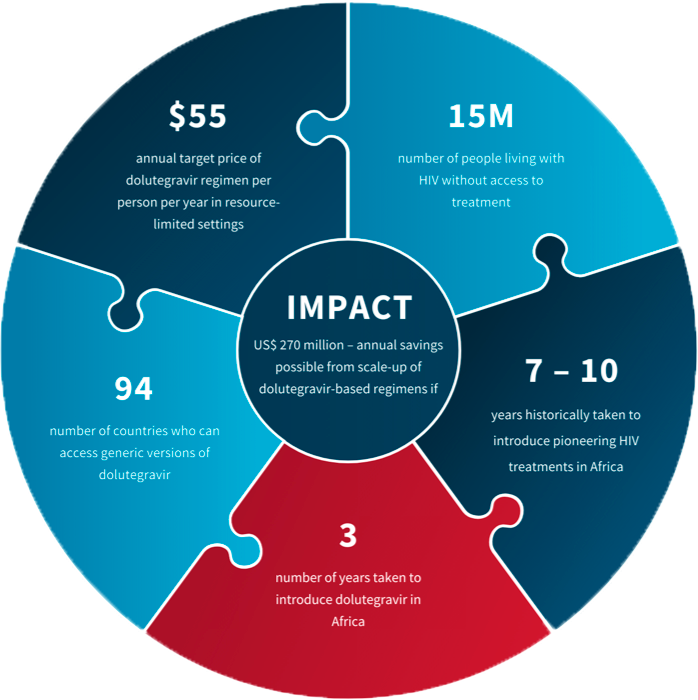
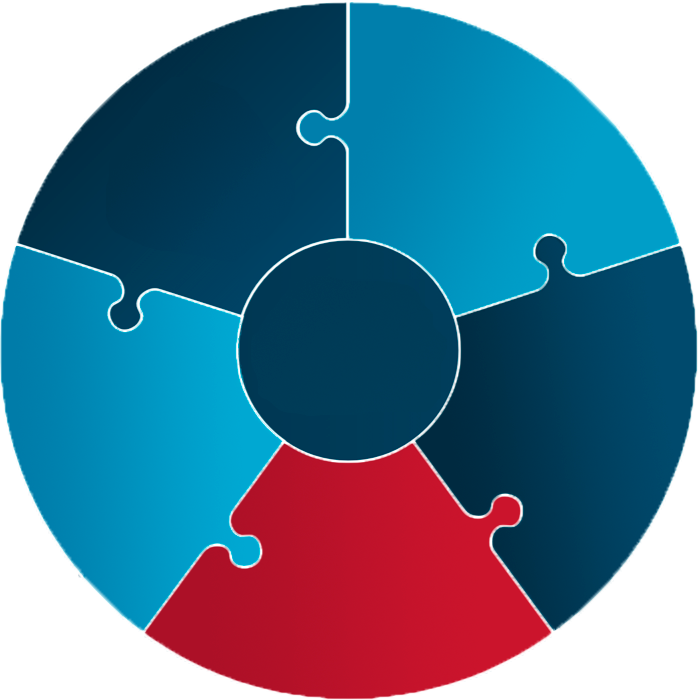
add position to all items, edit bg-circle.png

diff --git a/css/main.min.css b/css/main.min.css
@@ -1,2 +1,2 @@
-:root{--max-width: 70vw}ul{list-style:none;padding:0;margin:0}.statistic{width:var(--max-width);height:var(--max-width);padding:10px 20px;background-color:#044665}.container{width:100%;height:100%;position:relative;border-radius:50%;border:3px solid white;background-image:url("../bg-circle.png");background-size:contain;background-position:center;background-repeat:no-repeat}.item{font-family:sans-serif;color:#fff;max-width:20vw}.item__title{display:block;margin-bottom:1vw;font-size:4.2vw;text-align:center}.item__description{font-size:1.2vw;text-align:center;line-height:1.7;letter-spacing:0.03vw}.item--first{position:absolute;top:calc(var(--max-width)*0.135);left:calc(var(--max-width)*0.14)}
+:root{--max-width: 70vw}ul{list-style:none;padding:0;margin:0}.statistic{width:var(--max-width);height:var(--max-width);padding:10px 20px;background-color:#044665}.container{width:100%;height:100%;position:relative;border-radius:50%;border:3px solid white;background-image:url("../bg-circle.png");background-size:contain;background-position:center;background-repeat:no-repeat}.item{font-family:sans-serif;color:#fff;max-width:15vw}.item__title{display:block;margin-bottom:0.1em;font-size:4vw;text-align:center}.item__description{font-size:1.4vw;text-align:center;line-height:1.7;letter-spacing:0.03vw}.item--first{position:absolute;top:calc(var(--max-width)*0.135);left:calc(var(--max-width)*0.17)}.item--second{position:absolute;top:calc(var(--max-width)*0.135);right:calc(var(--max-width)*0.22)}.item--third{position:absolute;top:50%;left:50%;-webkit-transform:translate(-51%, -41%);transform:translate(-51%, -41%)}.item--fourth{position:absolute;bottom:calc(var(--max-width)*0.25);left:calc(var(--max-width)*0.09)}.item--fifth{position:absolute;bottom:calc(var(--max-width)*0.08);left:calc(var(--max-width)*0.39)}.item--six{position:absolute;bottom:calc(var(--max-width)*0.25);right:calc(var(--max-width)*0.08)}
 /*# sourceMappingURL=main.min.css.map */

diff --git a/index.html b/index.html
@@ -13,26 +13,26 @@
                 <strong class="item__title">$55</strong>
                 <p  class="item__description">annual target price of dolutegravir regimen per person per year in resource-limit settings</p>
             </li>
-            <!-- <li class="item">
+            <li class="item item--second">
                 <strong class="item__title">15M</strong>
                 <p class="item__description">number of people living with HIV without access to treatment</p>
             </li>
-            <li class="item">
+            <li class="item item--third">
                 <strong class="item__title">IMPACT</strong>
                 <p class="item__description">US$ 270 million - annual savings possible from scale-up of dolutegravir-based regimens if</p>
             </li>
-            <li class="item">
+            <li class="item item--fourth">
                 <strong class="item__title">94</strong>
                 <p class="item__description">number of countries who can access generic version of dolutegravir</p>
             </li>
-            <li class="item">
+            <li class="item item--fifth">
                 <strong class="item__title">3</strong>
                 <p class="item__description">number of years taken to introduce dolutegravir in Africa</p>
             </li>
-            <li class="item">
+            <li class="item item--six">
                 <strong class="item__title">7 - 10</strong>
                 <p class="item__description">years historically taken to introduce pioneering HIV treatments in Africa</p>
-            </li> -->
+            </li>
         </ul>
     </section>
     

diff --git a/sass/main.scss b/sass/main.scss
@@ -4,8 +4,7 @@
 ul {
     list-style: none;
     padding: 0;
-    margin: 0;
-
+    margin: 0;    
 }
 .statistic{
     width: var(--max-width);
@@ -29,18 +28,18 @@ ul {
 .item{
     font-family: sans-serif;
     color: #fff;
-    max-width: 20vw;
+    max-width: 15vw;
 }
 
 .item__title{
     display: block;
-    margin-bottom: 1vw;
-    font-size: 4.2vw;
+    margin-bottom: 0.1em;
+    font-size: 4vw;
     text-align: center;
 }
 
 .item__description {
-    font-size: 1.2vw;
+    font-size: 1.4vw;
     text-align: center;
     line-height: 1.7;
     letter-spacing: 0.03vw;
@@ -49,5 +48,32 @@ ul {
 .item--first {
     position: absolute;
     top: calc(var(--max-width)*0.135);
-    left:  calc(var(--max-width)*0.14);
+    left:  calc(var(--max-width)*0.17);
+}
+
+.item--second {
+    position: absolute;
+    top: calc(var(--max-width)*0.135);
+    right:  calc(var(--max-width)*0.22);
+}
+.item--third{
+    position: absolute;
+    top: 50%;
+    left: 50%;
+    transform: translate(-51%, -41%);
+}
+.item--fourth{
+    position: absolute;
+    bottom: calc(var(--max-width)*0.25);
+    left:  calc(var(--max-width)*0.09);
+}
+.item--fifth{
+    position: absolute;
+    bottom: calc(var(--max-width)*0.08);
+    left:  calc(var(--max-width)*0.39);
+}
+.item--six{
+    position: absolute;
+    bottom: calc(var(--max-width)*0.25);
+    right:  calc(var(--max-width)*0.08);
 }

diff --git a/css/main.css b/css/main.css
@@ -30,18 +30,18 @@ ul {
 .item {
   font-family: sans-serif;
   color: #fff;
-  max-width: 20vw;
+  max-width: 15vw;
 }
 
 .item__title {
   display: block;
-  margin-bottom: 1vw;
-  font-size: 4.2vw;
+  margin-bottom: 0.1em;
+  font-size: 4vw;
   text-align: center;
 }
 
 .item__description {
-  font-size: 1.2vw;
+  font-size: 1.4vw;
   text-align: center;
   line-height: 1.7;
   letter-spacing: 0.03vw;
@@ -50,6 +50,38 @@ ul {
 .item--first {
   position: absolute;
   top: calc(var(--max-width)*0.135);
-  left: calc(var(--max-width)*0.14);
+  left: calc(var(--max-width)*0.17);
+}
+
+.item--second {
+  position: absolute;
+  top: calc(var(--max-width)*0.135);
+  right: calc(var(--max-width)*0.22);
+}
+
+.item--third {
+  position: absolute;
+  top: 50%;
+  left: 50%;
+  -webkit-transform: translate(-51%, -41%);
+          transform: translate(-51%, -41%);
+}
+
+.item--fourth {
+  position: absolute;
+  bottom: calc(var(--max-width)*0.25);
+  left: calc(var(--max-width)*0.09);
+}
+
+.item--fifth {
+  position: absolute;
+  bottom: calc(var(--max-width)*0.08);
+  left: calc(var(--max-width)*0.39);
+}
+
+.item--six {
+  position: absolute;
+  bottom: calc(var(--max-width)*0.25);
+  right: calc(var(--max-width)*0.08);
 }
 /*# sourceMappingURL=main.css.map */
